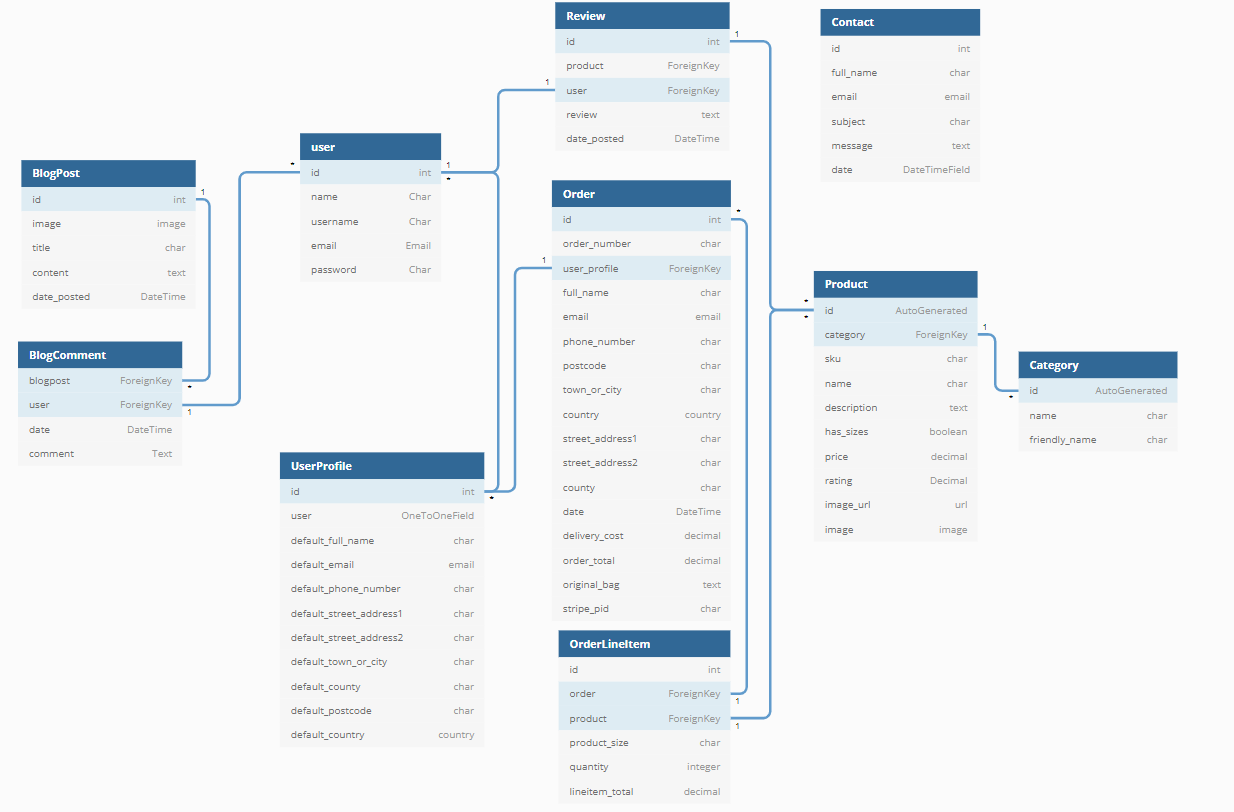
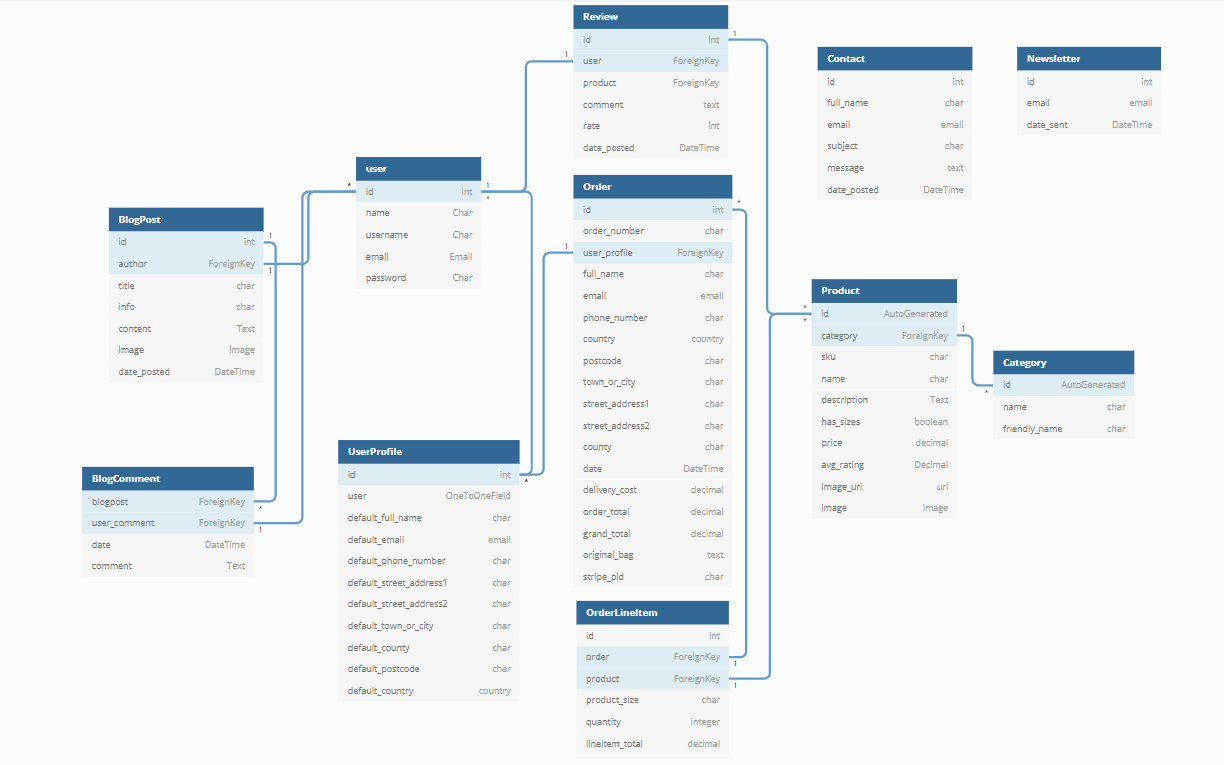
docs(readme):add update wireframes, database,models

diff --git a/README.md b/README.md
@@ -49,12 +49,12 @@
 
 ---
 
-![altamiresponsive](wireframes/readme/am-i-responsive.jpg)
+![altamiresponsive](wireframes/readme/am-i-responsive.png)
 
 
-- A live demo can be found [here](https://eva-kuk.github.io/unique-wings/)
+- A live demo can be found [here](https://unique-wings.herokuapp.com/)
 
-- A github repository can be found [here]()
+- A github repository can be found [here](https://github.com/Eva-Kuk/unique-wings)
 
 
 ## Overview
@@ -260,7 +260,6 @@ If a user tries to access a 'forbidden' page, they will be either automatically 
 | county          | CharField     | max_length=80, null=True, blank=True                         |
 | date            | DateTimeField | auto_now_add=True                                            |
 | delivery_cost   | DecimalField  | max_digits=6, decimal_places=2, null=False, default=0        |
-| discount        | DecimalField  | max_digits=6, decimal_places=2, null=False, default=0        |
 | order_total     | DecimalField  | max_digits=10, decimal_places=2, null=False, default=0       |
 | grand_total     | DecimalField  | max_digits=10, decimal_places=2, null=False, default=0       |
 | original_bag    | TextField     | null=False, blank=False, default=''                          |
@@ -288,7 +287,7 @@ If a user tries to access a 'forbidden' page, they will be either automatically 
 | description | TextField    | ()                                                           |
 | has_sizes   | BooleanField | default=False, null=True, blank=True                         |
 | price       | DecimalField | max_digits=6, decimal_places=2                               |
-| rating      | DecimalField | max_digits=6, decimal_places=2, null=True, blank=True        |
+| avg_rating  | DecimalField | max_digits=6, decimal_places=2, null=True, blank=True        |
 | image_url   | URLField     | max_length=1024, null=True, blank=True                       |
 | image       | ImageField   | null=True, blank=True                                        |
 
@@ -305,8 +304,10 @@ If a user tries to access a 'forbidden' page, they will be either automatically 
 
 | *Field*     | *Field type*          | *Attributes*                          |
 | ----------- | --------------------- | ------------------------------------- |
+| author      | ForeignKey            | User, on_delete=models.CASCADE        |
 | image       | ImageField            | null=True, blank=True                 |
 | title       | "TextField"/CharField | max_length=254, null=True, blank=True |
+| info        | Charfield             | models.CharField(max_length=254, null=True, blank=True) |
 | content     | TextField             | max_length=1000                       |
 | date_posted | DateTimeField         | auto_now_add=True                     |
 
@@ -328,7 +329,7 @@ If a user tries to access a 'forbidden' page, they will be either automatically 
 | full_name   | Charfield     | max_length=50, null=False, blank=False                       |
 | email       | EmailField    | max_length=254, null=False, blank=False                      |
 | subject     | CharField     | (max_length=50, choices=SUBJECT_MENU, default='general_query', null=False, blank=False) |
-| message     | TextField     | max_length=1000, blank=False, null=True                                      |
+| message     | TextField     | max_length=1000, blank=False, null=True                      |
 | date_posted | DateTimeField | auto_now_add=True                                            |
 
 ### "NewsletterUserSubscription" model is used to store users emails for newsletter subscription.
@@ -338,12 +339,11 @@ If a user tries to access a 'forbidden' page, they will be either automatically 
 | date_sent | DateTimeField  | auto_now_add=True |
 
 
-
 ### "Review" model is used to store users comments for each product. "Review" model is linked to the "Product" and ""User" Model.
 
 | *Field*     | *Field type* | *Attributes*                      |
 | ----------- | ------------ | --------------------------------- |
-| product     | ForeignKey   | Product, on_delete=models.CASCADE |
+| product     | ForeignKey   | models.ForeignKey(Product, null=True, blank=True,related_name='reviews', on_delete=models.SET_NULL |
 | user        | ForeignKey   | UserProfile, on_delete=models.CASCADE|
 | comment     | TextField    | max_length=500                    |
 | rate        | IntegerField | choices=RATE                      |
@@ -355,7 +355,8 @@ If a user tries to access a 'forbidden' page, they will be either automatically 
 ## Wireframes mockups
 
 Below are the wireframes created in advance of starting the project. I used the wireframing software [Balsamiq](https://balsamiq.com/) for this project.
-
+The initial wireframes do not differ much from the final version. Visually, I centered the login and register form, I also decided to allow registered users to add, edit and delete comments for blogs and products, and I add ratings.
+I have also decided to change blog page and display blog articles as four cards in a row. I found it better UX than previous version. 
 **HOME PAGE**
 
 ![home page](wireframes/home.png)
@@ -382,11 +383,15 @@ Below are the wireframes created in advance of starting the project. I used the 
 
 **LOGIN PAGE**
 
-![login page](wireframes/login.png)
+[login page old version](wireframes/login.png)
+
+![login page](wireframes/login-new.png)
 
 **REGISTER PAGE**
 
-![register page](wireframes/register.png)
+[register page old version](wireframes/register.png)
+
+![register page new](wireframes/register-new.png)
 
 **CONTACT PAGE**
 
@@ -398,11 +403,15 @@ Below are the wireframes created in advance of starting the project. I used the 
 
 **BLOG PAGE**
 
-![blog page](wireframes/blog.png)
+[blog page old version](wireframes/blog.png)
+
+![blog page new](wireframes/blog-new.png)
 
 **SINGLE BLOGPST PAGE**
 
-![single blogpost page](wireframes/single-blogpost.png)
+[single blogpost page old version](wireframes/single-blogpost.png)
+
+![single blogpost page](wireframes/single-blogpost-new.png)
 
 **500 INTERNAL SERVER ERROR PAGE**
 
@@ -941,13 +950,15 @@ Other designers shoes and bags
 - [Aguazzura Canary Yellow Butterfly Sandals](https://www.aquazzura.com/us_en/papillon-sandal-105-sporty-yellow-pplhigs0-snl-spy.html)
 - [Furla Flamingo Shoulder Bag](https://www.lyst.com/bags/furla-flamingo-print-metropolis-bag/)
 - [Turquoise mini Kensington Hand Bag](https://www.zalando.ie/kurt-geiger-london-fabric-mini-kensington-across-body-bag-turquoise-ku051h08n-l11.html?size=One%20Size&allophones=0&wmc=SEM353_NB_GO._9357456472_1445614975_128503437563.&opc=2211&mpp=google%7cv1%7c%7cpla-422602954492%7c%7c1007850%7c%7cg%7cc%7c%7c555699722328%7c%7cpla%7cKU051H08N-L110ONE000%7c422602954492%7c1%7c&gclid=Cj0KCQjwlOmLBhCHARIsAGiJg7lDQRnXMV2ojg8V4VtuOiLD2r9yv1RWSdBP3N0H3wqhWgrJfbVx4XQaApAREALw_wcB&gclsrc=aw.ds)
-Blogpost articles
--[Shoes that celebrities like to wear](https://footwearnews.com/2019/fashion/celebrity-style/sophia-webster-butterfly-heels-red-carpet-1202761466/)
-- [Debunking Myths](https://katmaconie.com/blogs/blog/the-widefitchallenge)
 - [Kensington Rainbow Handbag](https://8000-scarlet-tiger-6t3dns54.ws-eu18.gitpod.io/products/57/)
 - [Kensington Rainbow Shopper Bag](https://www.zalando.ie/kurt-geiger-london-shopper-tote-bag-multi-coloured-ku051h07e-t11.html?size=One%20Size)
-**Content**
 
+Blogpost articles
+
+**Content**
+- [Shoes that celebrities like to wear](https://footwearnews.com/2019/fashion/celebrity-style/sophia-webster-butterfly-heels-red-carpet-1202761466/)
+- [Debunking Myths](https://katmaconie.com/blogs/blog/the-widefitchallenge)
+- [How to choose the correct shoe size when shopping online?](https://www.dolitashoes.com/blogs/news/how-to-choose-the-correct-shoe-size-when-shopping-online)
 
 
 **Code Snippets**
